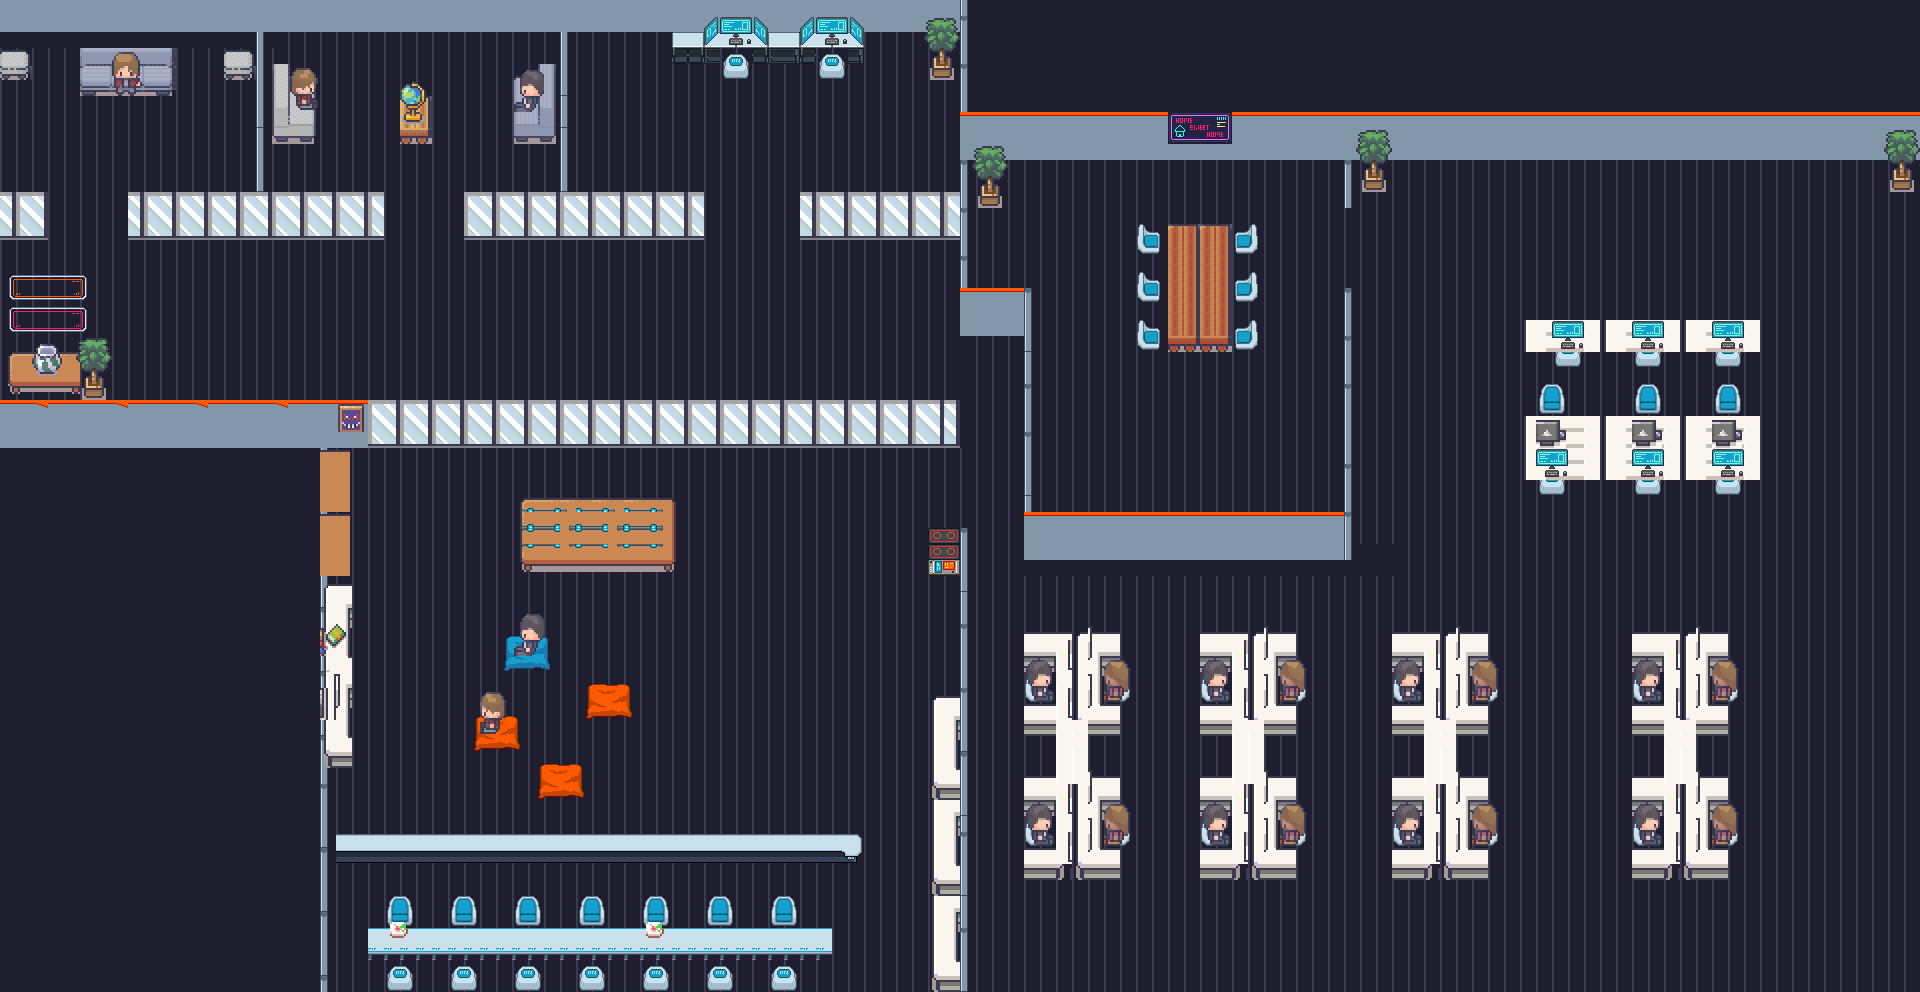
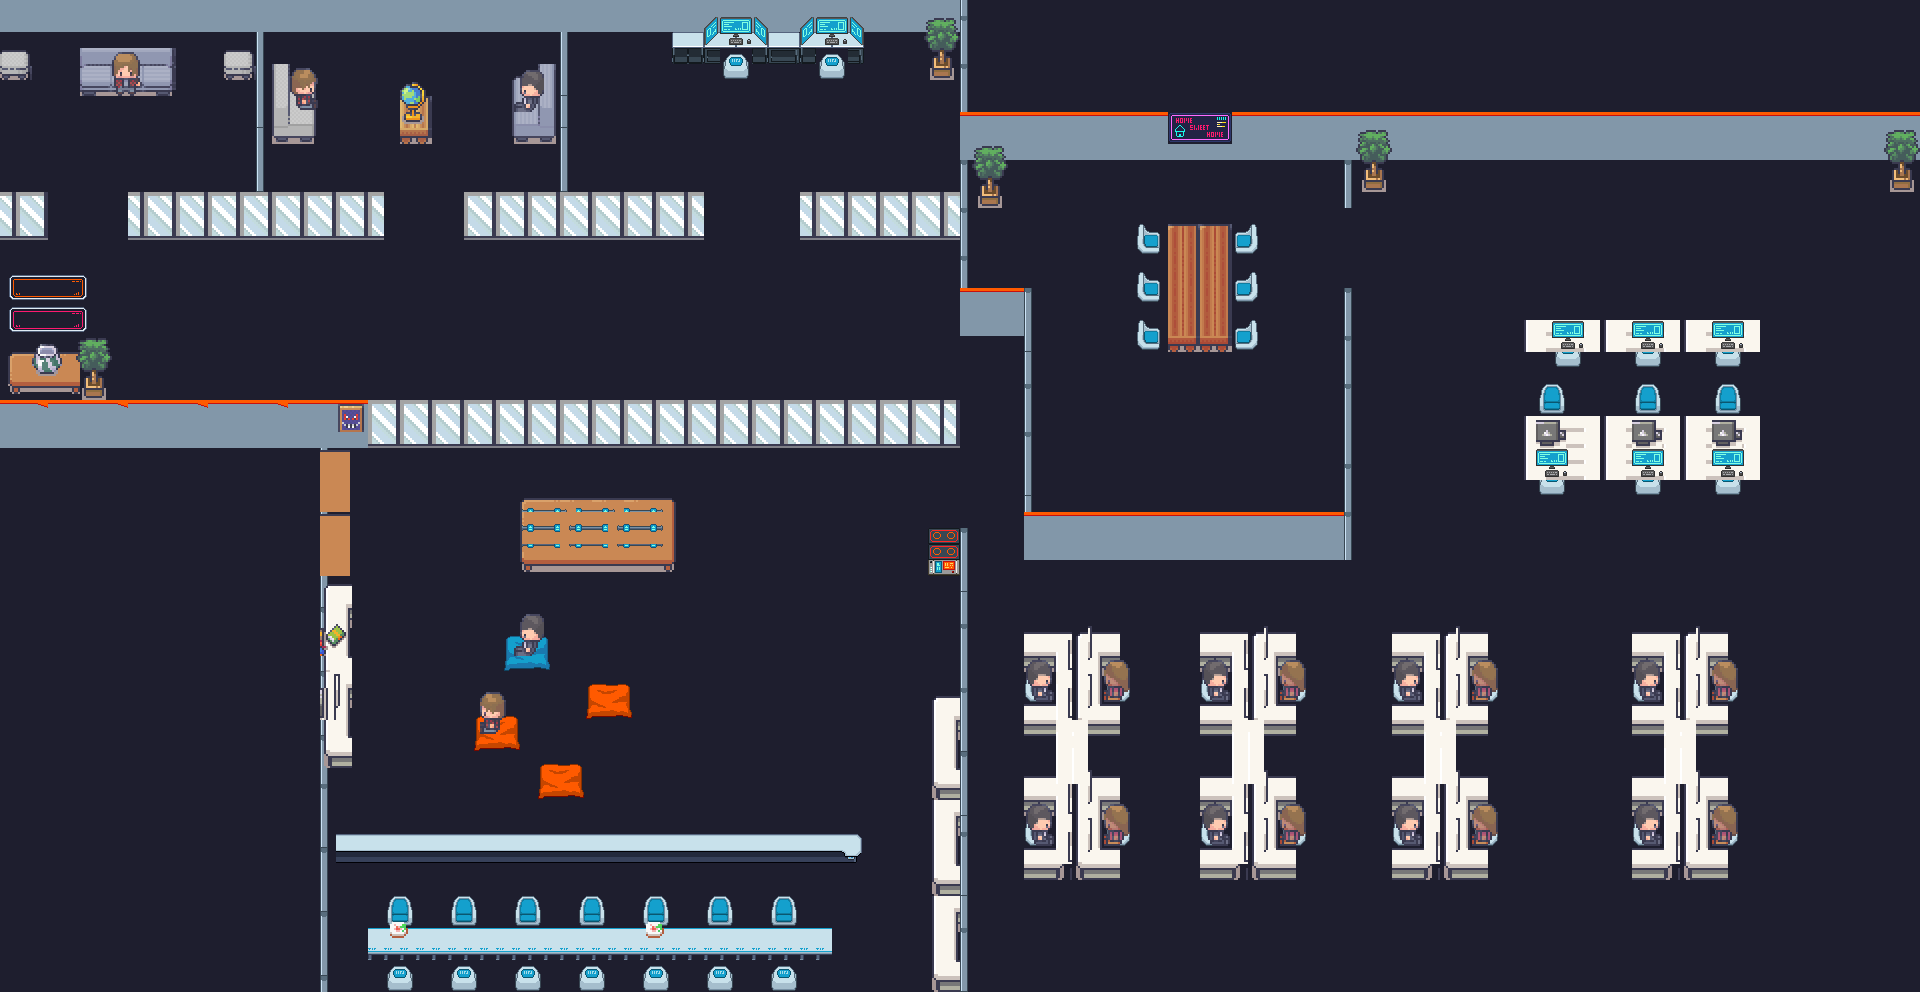
Ajuste de imagen de tamaño y posicion de interactive

diff --git a/learning-ai-1/fusion-world.js b/learning-ai-1/fusion-world.js
@@ -28,7 +28,7 @@ class FusionWorld {
 
     // Game settings
     this.canvas.width = 1000;
-    this.canvas.height = 650;
+    this.canvas.height = 600;
 
     // Collision map properties
     this.collisionMap = collisionMapData.map(v => v === 0 ? 0 : 1); // Transformar a 0/1
@@ -138,7 +138,7 @@ class FusionWorld {
 
   createInteractiveObjects() {
     this.interactiveObjects.push({ x: 100, y: 100, width: 48, height: 48, type: 'minigame', minigame: 'learning-types' });
-    this.interactiveObjects.push({ x: 600, y: 400, width: 48, height: 48, type: 'minigame', minigame: 'unsupervised-learning' });
+    this.interactiveObjects.push({ x: 300, y: 100, width: 48, height: 48, type: 'minigame', minigame: 'unsupervised-learning' });
     this.interactiveObjects.push({ x: 400, y: 500, width: 48, height: 48, question: 'Escribe la palabra "secreto" para continuar', answer: 'secreto' });
   }
 

diff --git a/learning-ai-1/styles.css b/learning-ai-1/styles.css
@@ -1,3 +1,7 @@
+*{
+  zoom: 0.96;
+}
+
 /* General Body Styles */
 body {
   display: flex;
